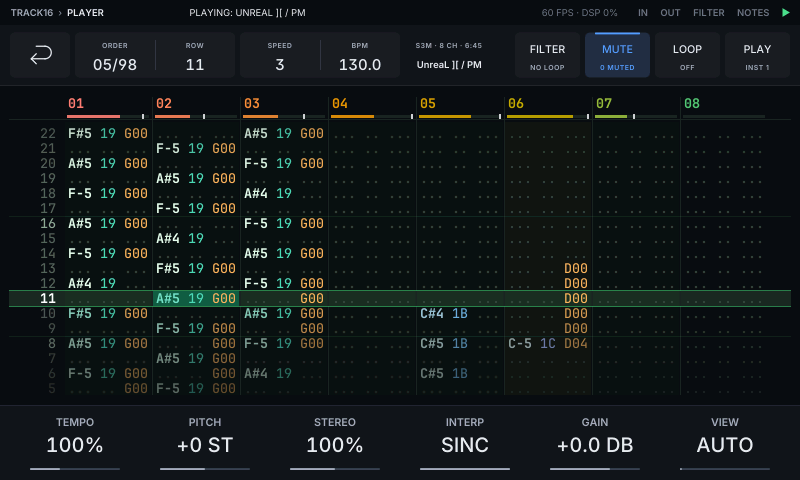
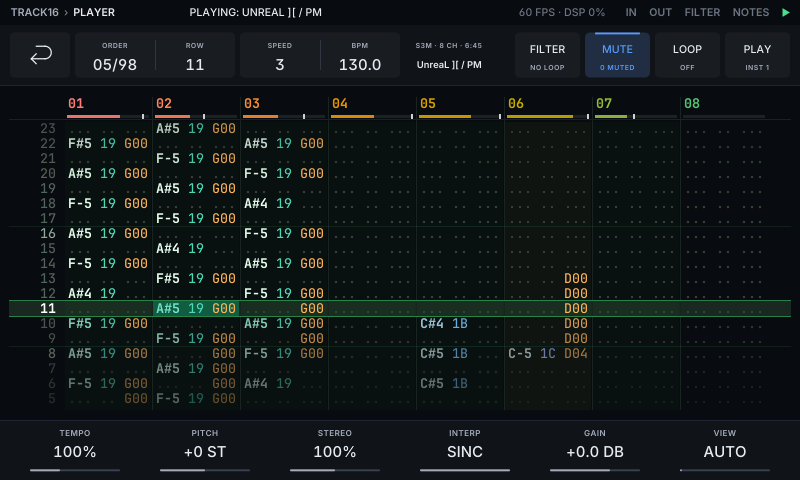
Knob strip down to 96 lpx with smaller type; top line at 17 lpx

diff --git a/app/Screen.cpp b/app/Screen.cpp
@@ -119,35 +119,35 @@ struct Screen::StatusRow final : juce::Component
     bool playing = false, litIn = false, litOut = false, filter = false, notes = false;
     double midiInAt = -1e9;
 
-    // Body size (15 lpx, ≈ 9 px on the panel): read from a standing position. Right to left: the play state, the
+    // Title size (17 lpx, ≈ 11 px on the panel): read from a standing position. Right to left: the play state, the
     // NOTES / FILTER / OUT / IN flags, the load; the last event in the room left between.
     void paint(juce::Graphics& g) override
     {
         const float cy = L::statusH / 2;
         const juce::String app = juce::String(identity::displayName).toUpperCase();
-        theme::text(g, 16, cy, Align::Left, Text::BodyStrong, c::text2, app);
-        float x = 16 + theme::textWidth(Text::BodyStrong, app) + 8;
-        theme::text(g, x, cy, Align::Left, Text::BodyStrong, c::text3, kChevron);
-        x += theme::textWidth(Text::BodyStrong, kChevron) + 8;
-        theme::text(g, x, cy, Align::Left, Text::BodyStrong, c::text1, where);
-        x += theme::textWidth(Text::BodyStrong, where) + 32;
+        theme::text(g, 16, cy, Align::Left, Text::Title, c::text2, app);
+        float x = 16 + theme::textWidth(Text::Title, app) + 8;
+        theme::text(g, x, cy, Align::Left, Text::Title, c::text3, kChevron);
+        x += theme::textWidth(Text::Title, kChevron) + 8;
+        theme::text(g, x, cy, Align::Left, Text::Title, c::text1, where);
+        x += theme::textWidth(Text::Title, where) + 32;
         float ix = 1264;
         theme::glyph(g, theme::Glyph::Play, ix - 12, cy - 7, 14, playing ? c::play : c::text3);
         ix -= 32;
         const auto flagText = [&](const char* text, bool lit, juce::Colour ink) {
-            theme::text(g, ix, cy, Align::Right, Text::BodyStrong, lit ? ink : c::text3, text);
-            ix -= theme::textWidth(Text::BodyStrong, text) + 20;
+            theme::text(g, ix, cy, Align::Right, Text::Title, lit ? ink : c::text3, text);
+            ix -= theme::textWidth(Text::Title, text) + 20;
         };
         flagText("NOTES", notes, c::rec);
         flagText("FILTER", filter, c::warn);
         flagText("OUT", litOut, c::accent);
         flagText("IN", litIn, c::accent);
         ix -= 12;
-        theme::text(g, ix, cy, Align::Right, Text::Body, c::text3, diag);
-        ix -= theme::textWidth(Text::Body, diag) + 32;
+        theme::text(g, ix, cy, Align::Right, Text::ValueS, c::text3, diag);
+        ix -= theme::textWidth(Text::ValueS, diag) + 32;
         juce::Graphics::ScopedSaveState s(g);
         g.reduceClipRegion(juce::Rectangle<float>(x, 0, std::max(0.0f, ix - x), L::statusH).toNearestInt());
-        theme::text(g, std::max(x, 300.0f), cy, Align::Left, Text::Body, c::text1, event);
+        theme::text(g, std::max(x, 300.0f), cy, Align::Left, Text::ValueS, c::text1, event);
     }
     void set(juce::String& field, const juce::String& v)
     {
@@ -383,8 +383,8 @@ struct Screen::KnobStrip final : juce::Component
         {
             const auto i = static_cast<std::size_t>(n);
             const float x = L::columnX0 + L::columnW * static_cast<float>(n), cx = x + L::columnW / 2;
-            theme::text(g, cx, L::columnCaptionY, Align::Centre, Text::Title, c::text2, captions[n]);
-            theme::text(g, cx, L::columnValueY, Align::Centre, Text::ValueL, c::text1, text[i]);
+            theme::text(g, cx, L::columnCaptionY, Align::Centre, Text::Label, c::text2, captions[n]);
+            theme::text(g, cx, L::columnValueY, Align::Centre, Text::Value, c::text1, text[i]);
             if (underlined[i])
             {
                 g.setColour(c::accent);

diff --git a/app/Theme.h b/app/Theme.h
@@ -58,16 +58,16 @@ inline constexpr float radiusXs = 4, radiusS = 6, radiusM = 8, radiusL = 12;
 inline constexpr float pad = 16, gap = 8;
 namespace layout
 {
-inline constexpr float statusH = 40, contextY = 40, contextH = 96, stripH = 120, stripY = kCanvasH - stripH;
-inline constexpr float bodyY = contextY + contextH, contentTop = bodyY + pad, contentBottom = stripY - pad; // 152–632
+inline constexpr float statusH = 40, contextY = 40, contextH = 96, stripH = 96, stripY = kCanvasH - stripH;
+inline constexpr float bodyY = contextY + contextH, contentTop = bodyY + pad, contentBottom = stripY - pad; // 152–656
 inline constexpr float ctlY = contextY + 12, ctlH = 72, captionY = 72, valueY = 104;
 inline const juce::Rectangle<float> slotA {16, ctlY, 96, ctlH}, slotB {120, ctlY, 256, ctlH}, slotC {384, ctlY, 256, ctlH},
     slotD {648, ctlY, 160, ctlH}, slotE {824, ctlY, 440, ctlH};
 inline constexpr float readoutX = 664, menuButtonW = 104;
 inline juce::Rectangle<float> menuButton(int i) { return {slotE.getX() + (menuButtonW + gap) * static_cast<float>(i), ctlY, menuButtonW, ctlH}; }
 inline constexpr float columnX0 = 16, columnW = 208;
-inline constexpr float columnCaptionY = stripY + 27, columnValueY = stripY + 63, columnUnderlineY = stripY + 87,
-                       columnTrackY = stripY + 101; // large type
+inline constexpr float columnCaptionY = stripY + 21, columnValueY = stripY + 50, columnUnderlineY = stripY + 67,
+                       columnTrackY = stripY + 79;
 inline constexpr float meterColumnX = 1176;
 } // namespace layout
 
